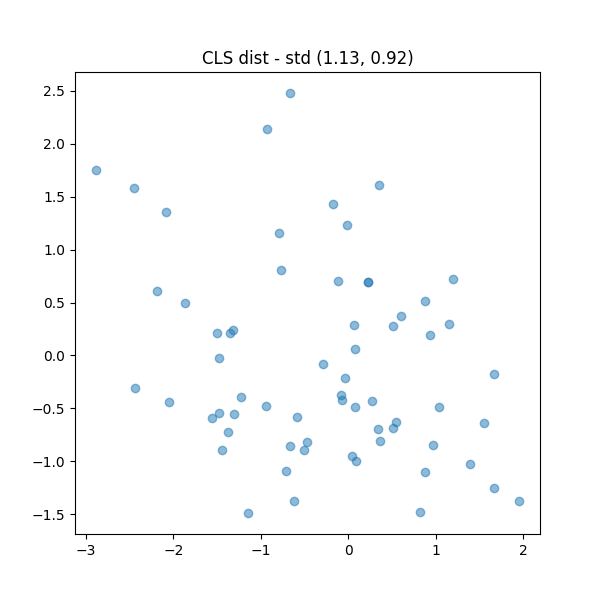
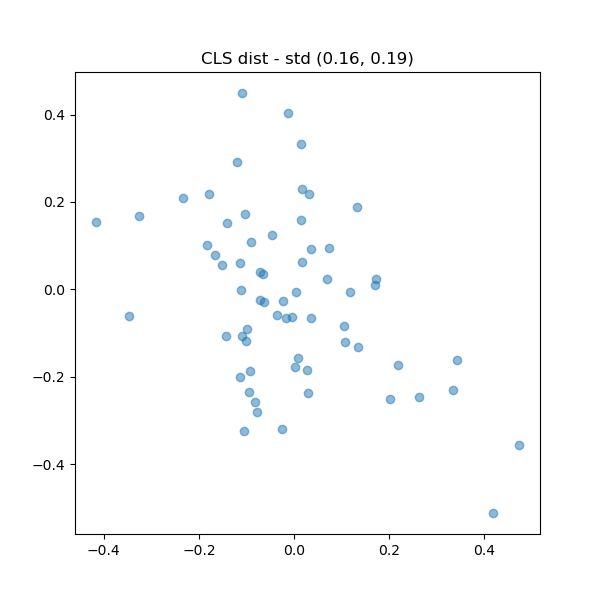
eval bug fix

diff --git a/eval.py b/eval.py
@@ -41,8 +41,9 @@ def compute_map_numpy(y_true, y_score):
         for i in range(len(precision) - 2, -1, -1):
             precision[i] = max(precision[i], precision[i + 1])
         # Sum over recall change points
-        idx = np.where(np.diff(recall, prepend=0) > 0)[0]
-        ap = np.sum((recall[idx] - recall[idx - 1]) * precision[idx])
+        recall_diff = np.diff(recall, prepend=0)
+        idx = np.where(recall_diff > 0)[0]
+        ap = np.sum(recall_diff[idx] * precision[idx])
         ap_list.append(ap)
     return float(np.mean(ap_list))
 
@@ -246,7 +247,8 @@ def evaluate(data_dir, csv_path, ckpt_dir, batch_size):
     try:
         from sklearn.metrics import average_precision_score
         mAP = float(average_precision_score(y_true, y_score, average="macro"))
-    except Exception:
+    except Exception as e:
+        print(f"Warning: sklearn mAP calculation failed ({e}). Using NumPy fallback.")
         mAP = compute_map_numpy(y_true, y_score)
 
     # Optional: multi-label binary accuracy at 0.5 threshold (coarse reference)
